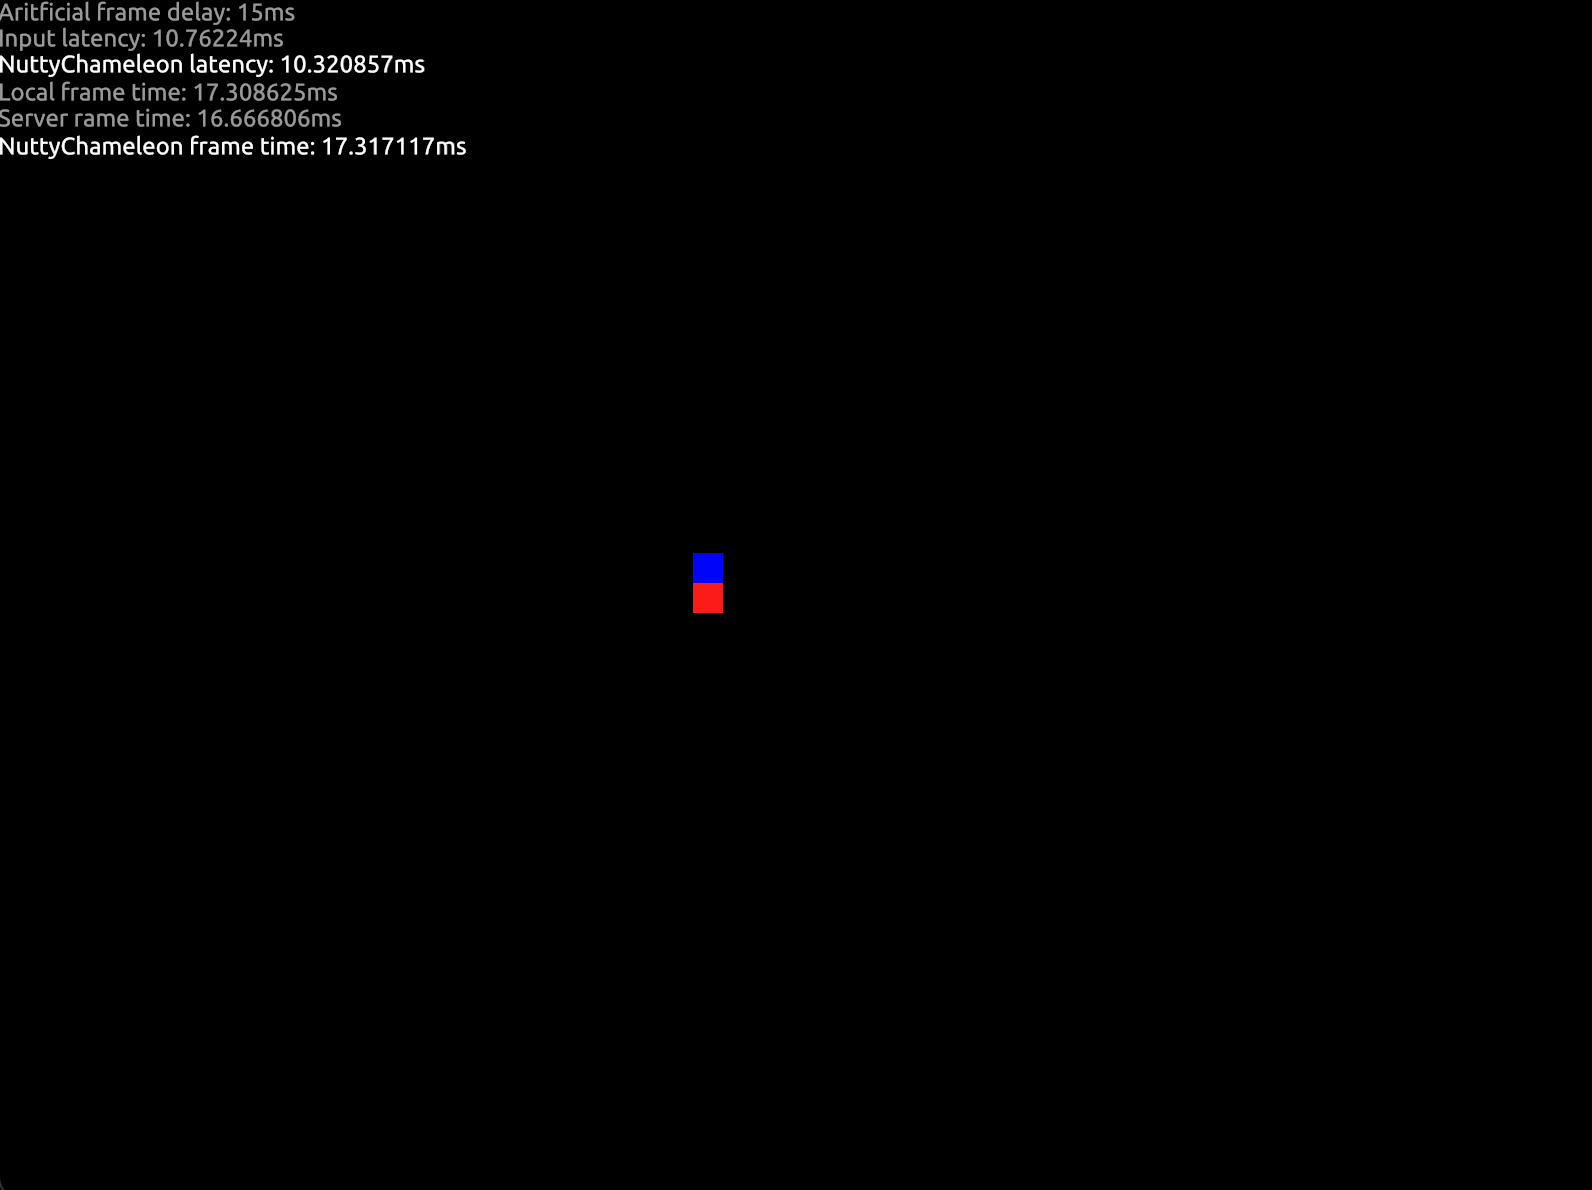
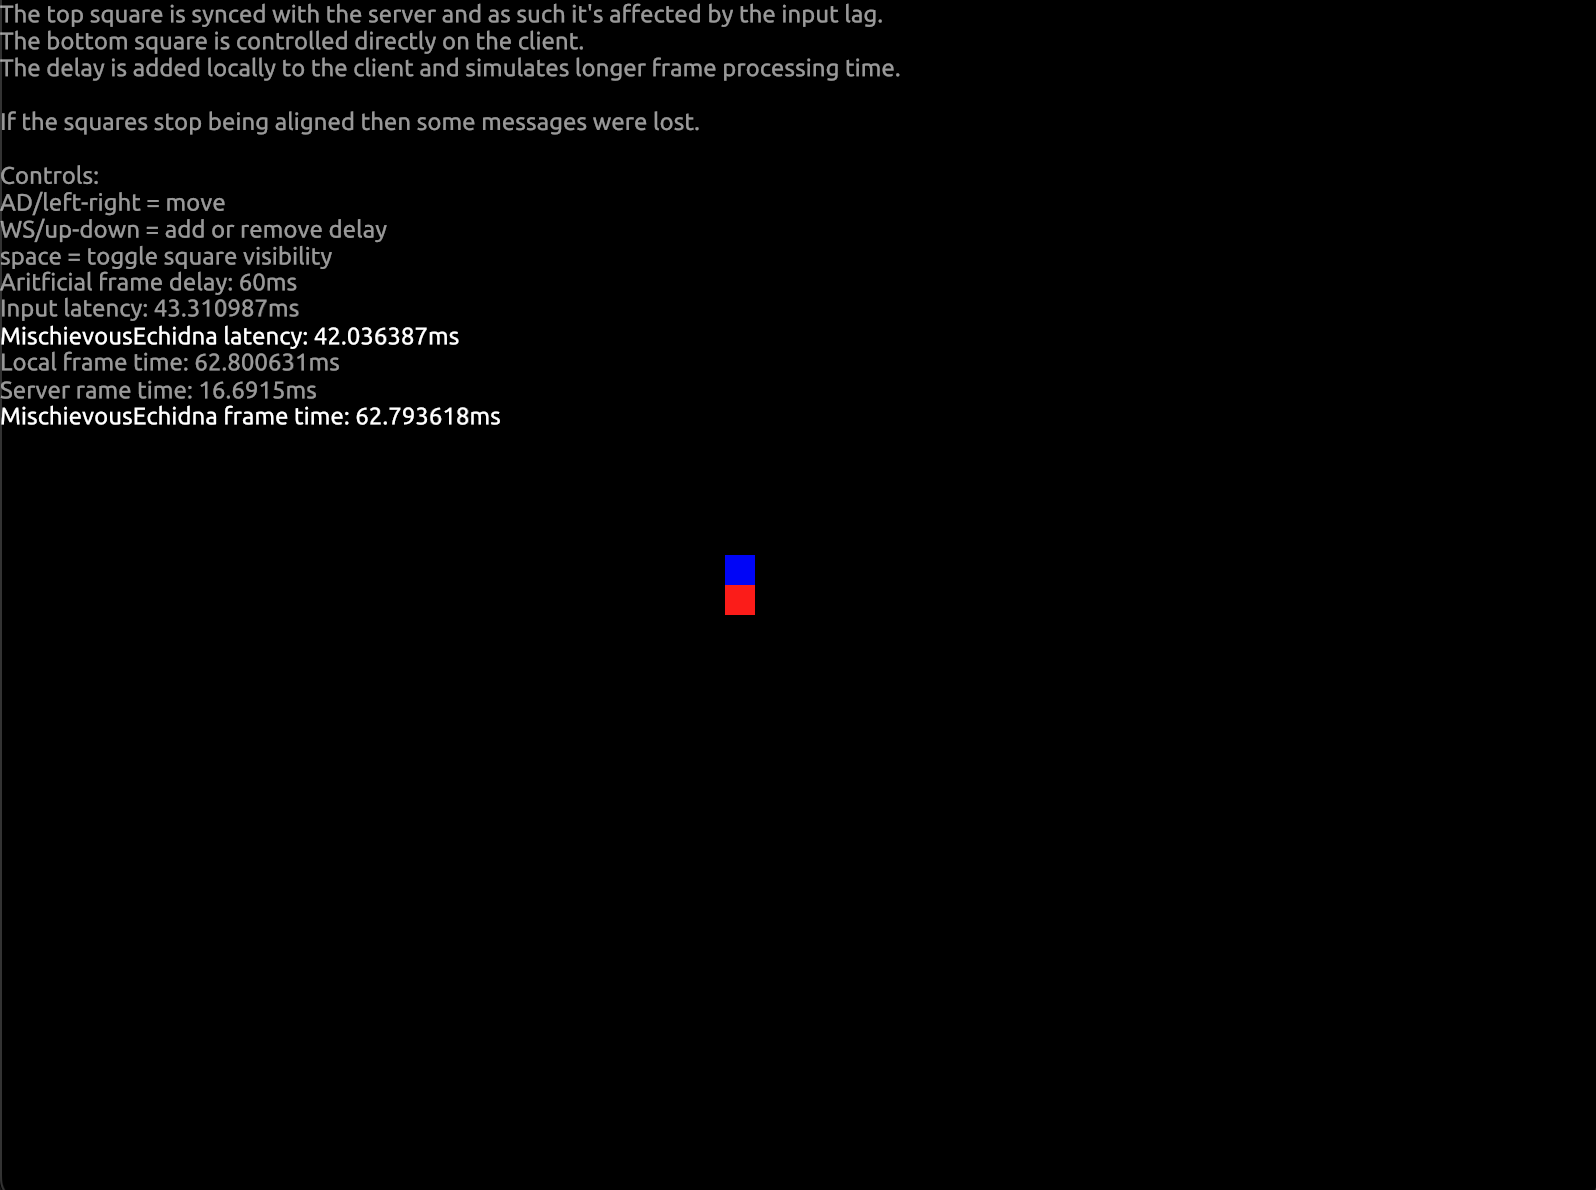
Update screenshot and readme

Changed region(s): [[0.0, 0.0, 0.554, 0.3731], [0.4309, 0.4664, 0.4925, 0.5286]]

diff --git a/input_lag_visualisation/README.md b/input_lag_visualisation/README.md
@@ -1,0 +1,14 @@
+# Input Lag Visualisation
+
+A simple tool to visualise input lag in games.
+
+The top square is synced with the server and as such it's affected by the input lag.
+The bottom square is controlled directly on the client.
+The delay is added locally to the client and simulates longer frame processing time.
+
+If the squares stop being aligned then some messages were lost.
+
+## Controls
+AD/left-right = move
+WS/up-down = add or remove delay
+space = toggle square visibility
